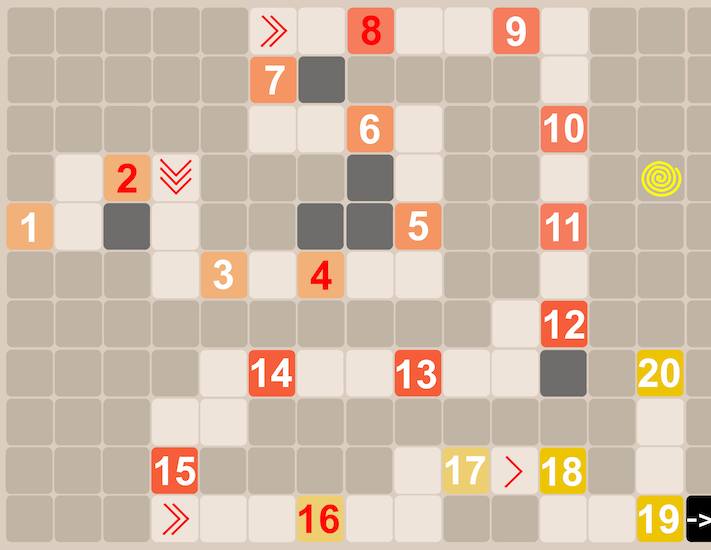
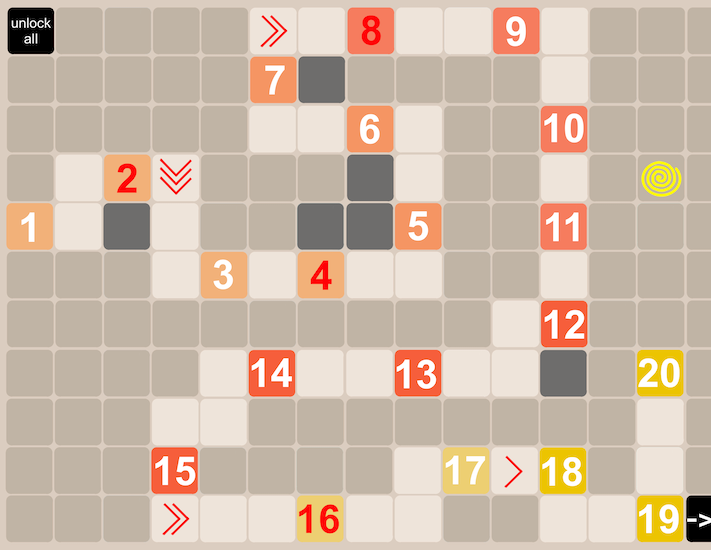
changed overworld

Changed region(s): [[0.0, 0.0, 0.0928, 0.1236]]

diff --git a/config.py b/config.py
@@ -132,7 +132,7 @@ score = 0
 tilerect = pygame.Rect(size_in_between, size_in_between, size, size)
 #default status.
 status = "homeInit"
-best_level=19
+best_level=0
 
 
 #---------------------------------------------------------
@@ -210,8 +210,8 @@ clickpos_levelselect1 = [
     (pygame.Rect(11 * r_siz + 5, 9 * r_siz + 5, r_siz, r_siz), "Level18"),
     (pygame.Rect(13 * r_siz + 5, 10 * r_siz + 5, r_siz, r_siz), "Level19"),
     (pygame.Rect(13 * r_siz + 5, 7 * r_siz + 5, r_siz, r_siz), "Level20"),
-    (pygame.Rect(14 * r_siz + 3, 10 * r_siz + 4, r_siz,
-                 r_siz), "Levelselect2"),
+    (pygame.Rect(14 * r_siz + 3, 10 * r_siz + 4, r_siz, r_siz), "Levelselect2"),
+    (pygame.Rect(0 * r_siz + 3, 0 * r_siz + 4, r_siz, r_siz), "unlock_all")
 ]
 
 

diff --git a/logic.py b/logic.py
@@ -487,7 +487,7 @@ def drawOverworld(fenster, site):
   fenster.blit(config.bilder["overworld" + str(site)], (0, 0))
   if int(site) == 1:
     for i in config.clickpos_levelselect1:
-      if i[1]!="Levelselect2":
+      if i[1]!="Levelselect2" and i[1]!="unlock_all":
         if int(i[1][-2:]) <= config.best_level:
           fenster.blit(config.bilder["face1"], (i[0][0]-4,i[0][1]+40))
         else:

diff --git a/main.py b/main.py
@@ -66,6 +66,8 @@ def inputLoop():
 
               if area[1] == "Levelselect2":
                 cfg.status = "overworld2"
+              elif area[1] == "unlock_all":
+                cfg.best_level=99
               elif "Level" in area[1]:
                 cfg.status = str(area[1]).lower() + "Init"
 
